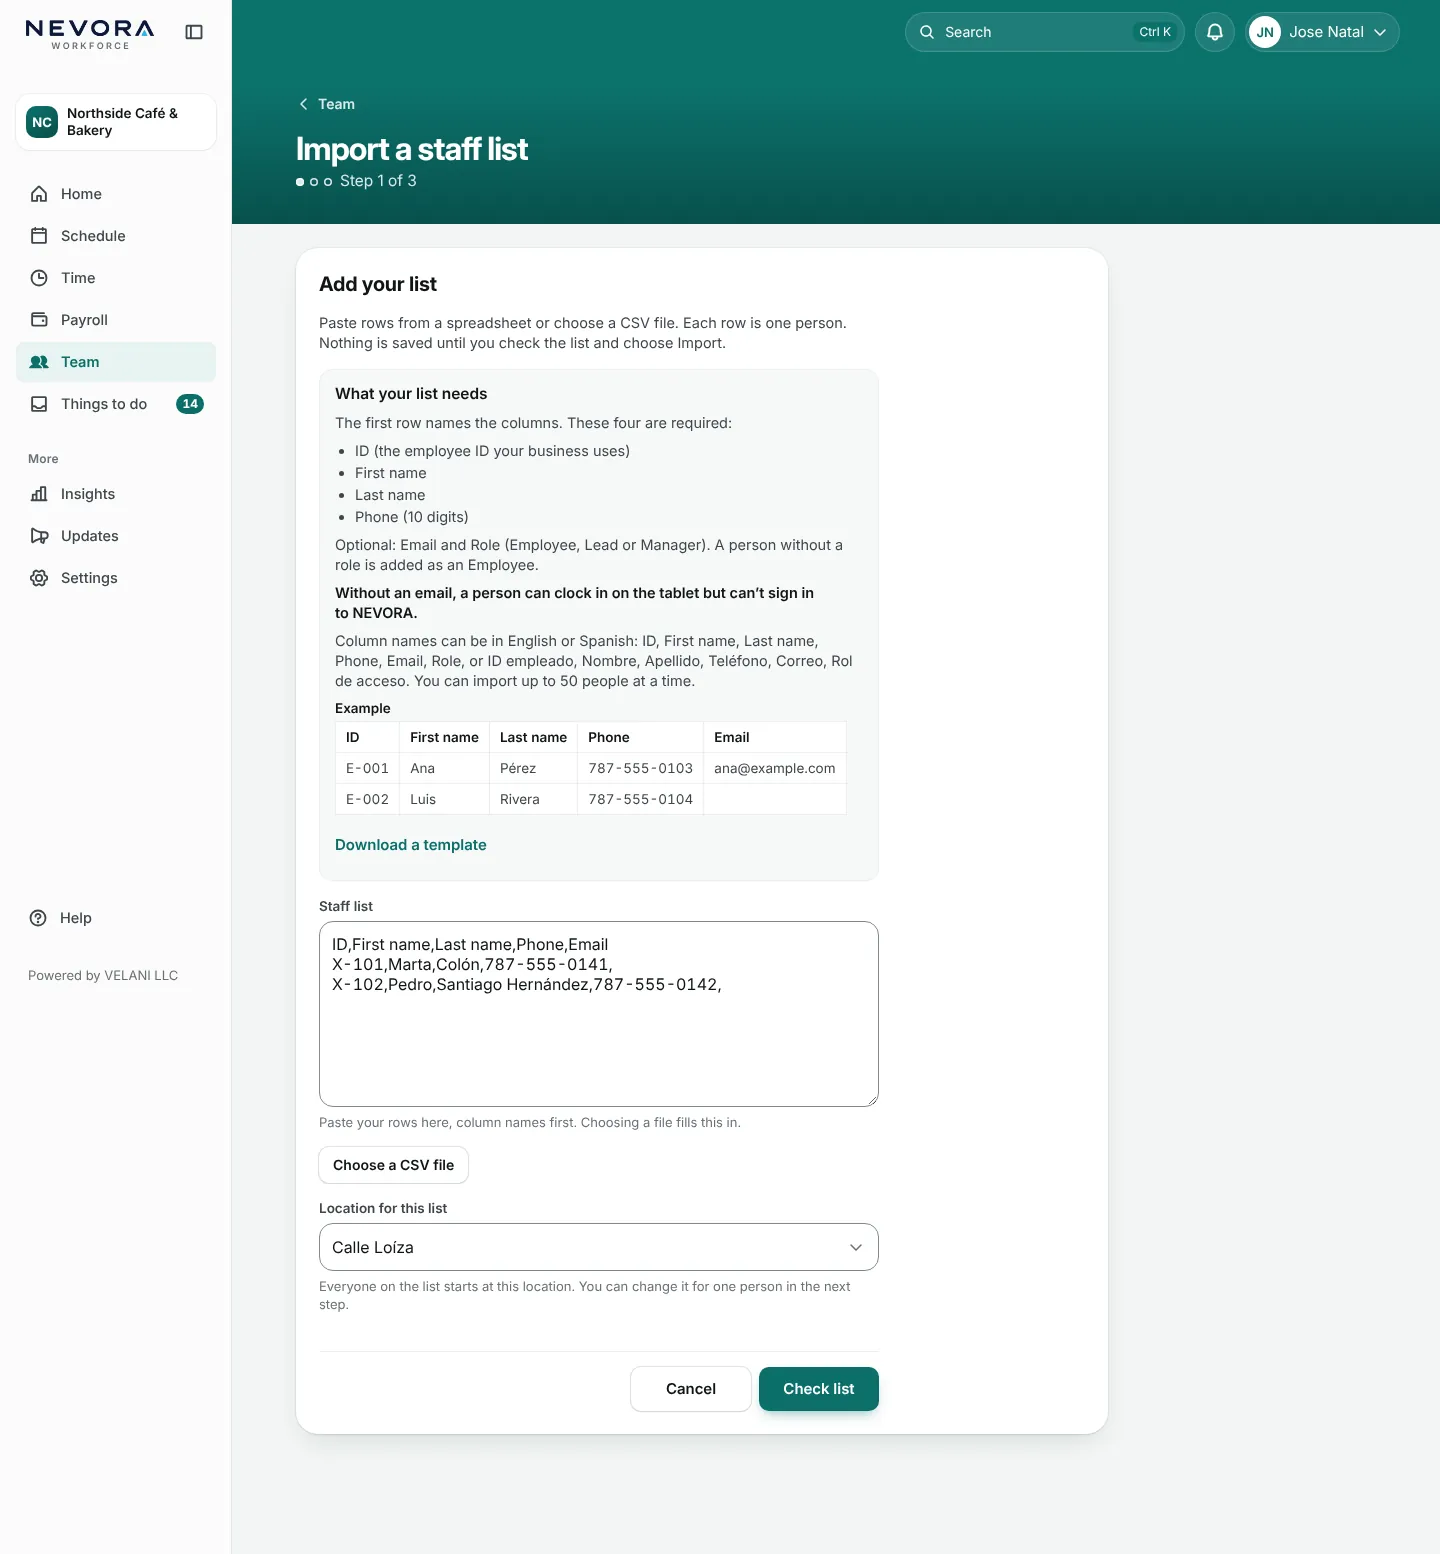
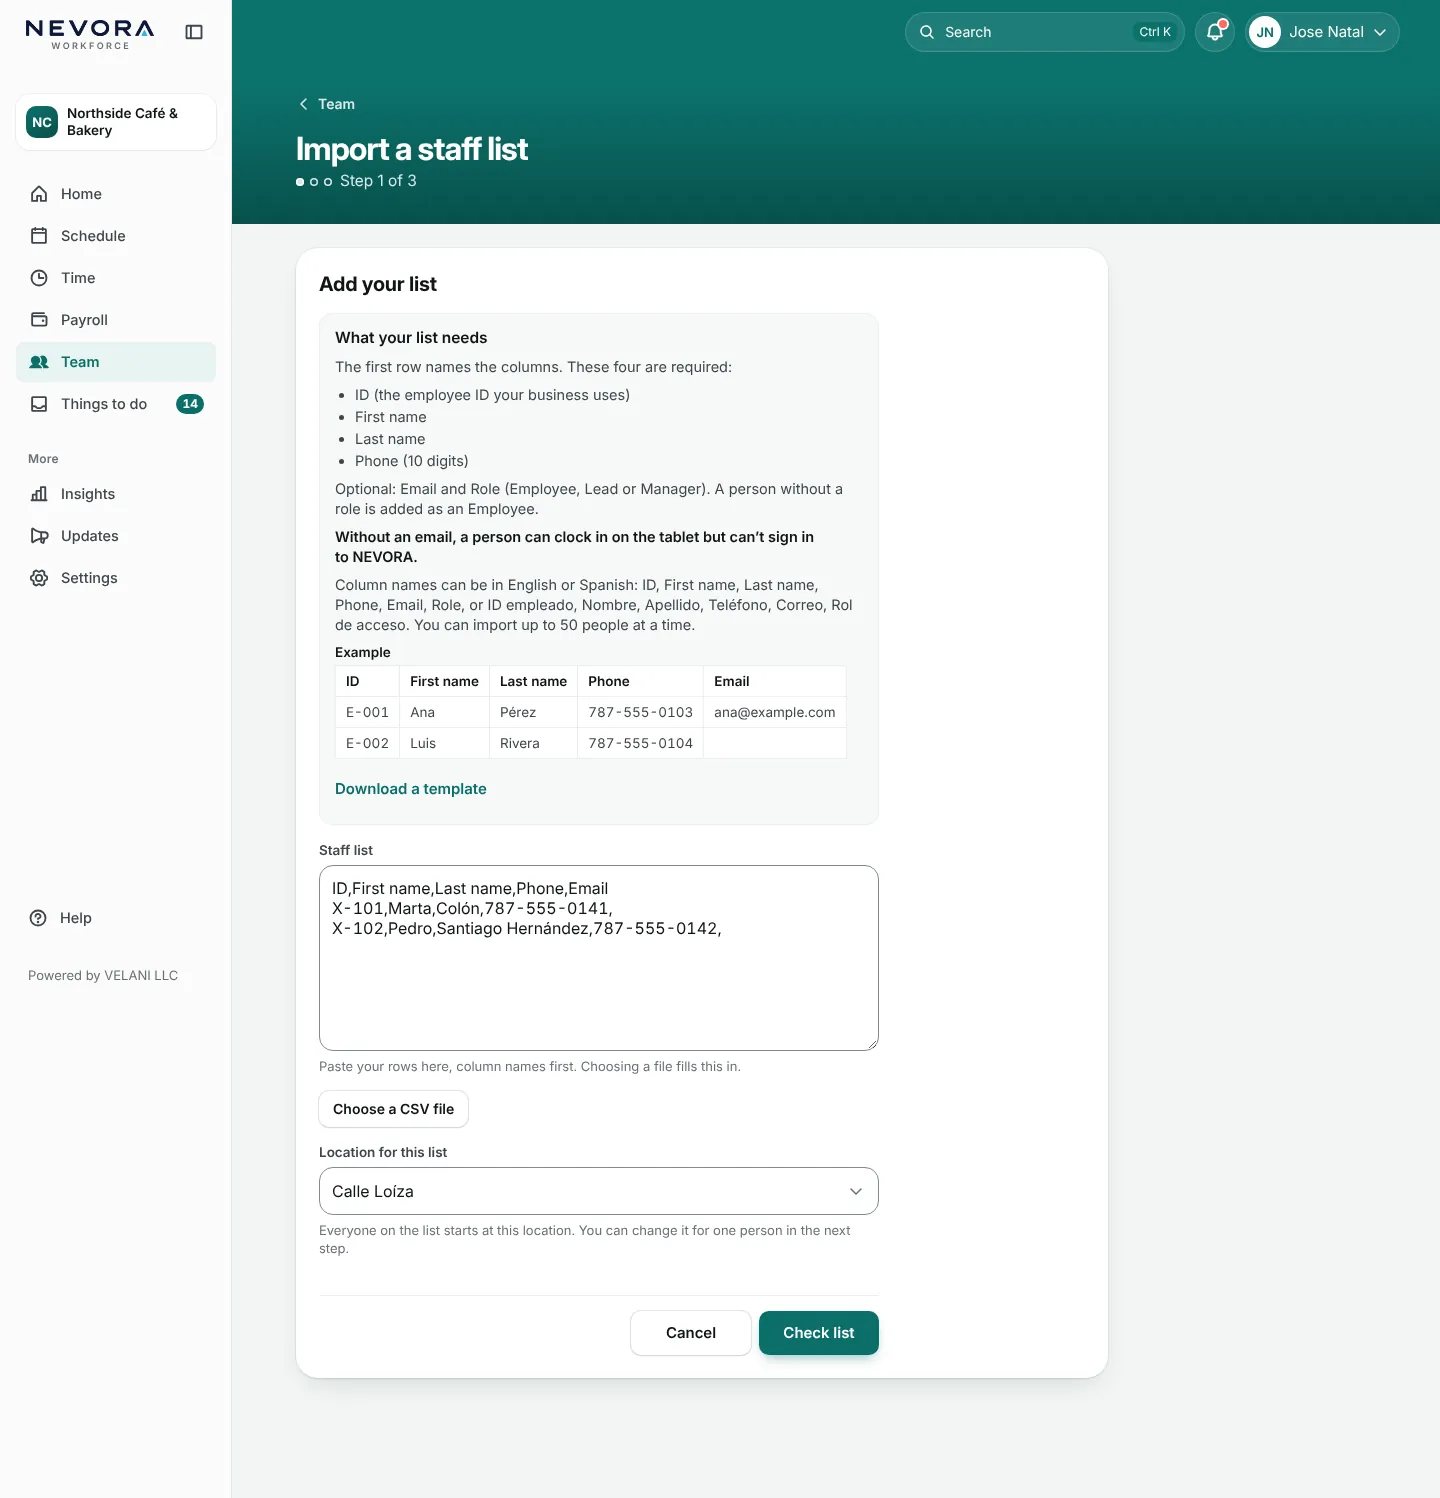
Package X: F3 Owner steps 1 and 2 recaptured after the second pass (390, 390 with 200% text, 1440); report updated
Rendered from the component, not the live import. axe 0, no overflow.

Claude-Session: https://claude.ai/code/session_01N2UNZGxHLT5dLE4G5HAjrG

diff --git a/docs/handoffs/2026-11-23-phase2-cloud/shots/package-x/index.html b/docs/handoffs/2026-11-23-phase2-cloud/shots/package-x/index.html
@@ -5,4 +5,4 @@ th,td{vertical-align:top;padding:8px;border-bottom:1px solid #d5dbd8;text-align:
 th[scope=row]{width:180px}th p{font-weight:400;color:#556}td img{display:block;width:240px;height:auto;border:1px solid #ccd}
 td:nth-child(5) img{width:420px}</style>
 <h1>Package X: F3 Import a staff list and I1 Profile (production build, fictional data)</h1><p>Columns: 390, 390 with 200% text, 768, 1440. Rows marked "rendered from the component, not the live import" show the real step components placed in the signed-in Owner page with the app's CSS; the live import needs workspace routing, which this build doesn't run.</p>
-<table><thead><tr><th>Page</th><th scope=col>Phone</th><th scope=col>Phone, 200% text</th><th scope=col>Tablet</th><th scope=col>Desktop</th></tr></thead><tbody><tr><th scope=row>F3-O<br>Owner (import not available in this build)<p>This capture build has no workspace routing, so the Owner sees &#x27;Staff list import isn&#x27;t available for this workplace yet.&#x27; with Add one person; the band now goes back to Team.</p></th><td><a href="F3-import-O-390.webp"><img loading=lazy src="F3-import-O-390.webp" alt="Import a staff list, Owner (import not available in this build), Phone"></a></td><td><a href="F3-import-O-390t200.webp"><img loading=lazy src="F3-import-O-390t200.webp" alt="Import a staff list, Owner (import not available in this build), Phone, 200% text"></a></td><td><a href="F3-import-O-768.webp"><img loading=lazy src="F3-import-O-768.webp" alt="Import a staff list, Owner (import not available in this build), Tablet"></a></td><td><a href="F3-import-O-1440.webp"><img loading=lazy src="F3-import-O-1440.webp" alt="Import a staff list, Owner (import not available in this build), Desktop"></a></td></tr><tr><th scope=row>F3-O<br>Owner, step 1 Add your list (rendered from the component, not the live import)<p>Step 1: one main action (Check list), Cancel on the band and at the end; the example table scrolls sideways and the keyboard can reach it. Rendered from the component, not the live import.</p></th><td><a href="F3s-add-O-390.webp"><img loading=lazy src="F3s-add-O-390.webp" alt="Import a staff list, Owner, step 1 Add your list (rendered from the component, not the live import), Phone"></a></td><td><a href="F3s-add-O-390t200.webp"><img loading=lazy src="F3s-add-O-390t200.webp" alt="Import a staff list, Owner, step 1 Add your list (rendered from the component, not the live import), Phone, 200% text"></a></td><td><a href="F3s-add-O-768.webp"><img loading=lazy src="F3s-add-O-768.webp" alt="Import a staff list, Owner, step 1 Add your list (rendered from the component, not the live import), Tablet"></a></td><td><a href="F3s-add-O-1440.webp"><img loading=lazy src="F3s-add-O-1440.webp" alt="Import a staff list, Owner, step 1 Add your list (rendered from the component, not the live import), Desktop"></a></td></tr><tr><th scope=row>F3-O<br>Owner, step 2 Check it, with rows to fix (rendered from the component, not the live import)<p>Step 2 with two rows to fix: each person is a stacked row card at every width (the 1440 table broke names mid-word); error lines are under the row; a row to fix shows its phone formatted. Rendered from the component, not the live import.</p></th><td><a href="F3s-review-O-390.webp"><img loading=lazy src="F3s-review-O-390.webp" alt="Import a staff list, Owner, step 2 Check it, with rows to fix (rendered from the component, not the live import), Phone"></a></td><td><a href="F3s-review-O-390t200.webp"><img loading=lazy src="F3s-review-O-390t200.webp" alt="Import a staff list, Owner, step 2 Check it, with rows to fix (rendered from the component, not the live import), Phone, 200% text"></a></td><td><a href="F3s-review-O-768.webp"><img loading=lazy src="F3s-review-O-768.webp" alt="Import a staff list, Owner, step 2 Check it, with rows to fix (rendered from the component, not the live import), Tablet"></a></td><td><a href="F3s-review-O-1440.webp"><img loading=lazy src="F3s-review-O-1440.webp" alt="Import a staff list, Owner, step 2 Check it, with rows to fix (rendered from the component, not the live import), Desktop"></a></td></tr><tr><th scope=row>F3-O<br>Owner, step 3 Import done (rendered from the component, not the live import)<p>Step 3: &#x27;2 people added&#x27;, the row left out and why, the no-email note, next steps as rows, Import another list. Rendered from the component, not the live import.</p></th><td><a href="F3s-done-O-390.webp"><img loading=lazy src="F3s-done-O-390.webp" alt="Import a staff list, Owner, step 3 Import done (rendered from the component, not the live import), Phone"></a></td><td><a href="F3s-done-O-390t200.webp"><img loading=lazy src="F3s-done-O-390t200.webp" alt="Import a staff list, Owner, step 3 Import done (rendered from the component, not the live import), Phone, 200% text"></a></td><td><a href="F3s-done-O-768.webp"><img loading=lazy src="F3s-done-O-768.webp" alt="Import a staff list, Owner, step 3 Import done (rendered from the component, not the live import), Tablet"></a></td><td><a href="F3s-done-O-1440.webp"><img loading=lazy src="F3s-done-O-1440.webp" alt="Import a staff list, Owner, step 3 Import done (rendered from the component, not the live import), Desktop"></a></td></tr><tr><th scope=row>F3-M<br>Manager (closed page)<p>Closed page: &#x27;Importing a staff list is for Owners&#x27;, the Owner named once, Add one person; the band goes back to Team (was Home).</p></th><td><a href="F3-import-M-390.webp"><img loading=lazy src="F3-import-M-390.webp" alt="Import a staff list, Manager (closed page), Phone"></a></td><td><a href="F3-import-M-390t200.webp"><img loading=lazy src="F3-import-M-390t200.webp" alt="Import a staff list, Manager (closed page), Phone, 200% text"></a></td><td><a href="F3-import-M-768.webp"><img loading=lazy src="F3-import-M-768.webp" alt="Import a staff list, Manager (closed page), Tablet"></a></td><td><a href="F3-import-M-1440.webp"><img loading=lazy src="F3-import-M-1440.webp" alt="Import a staff list, Manager (closed page), Desktop"></a></td></tr><tr><th scope=row>F3-Ml<br>Location Manager (closed page)<p>Same closed page as the Manager&#x27;s, back to Team.</p></th><td><a href="F3-import-Ml-390.webp"><img loading=lazy src="F3-import-Ml-390.webp" alt="Import a staff list, Location Manager (closed page), Phone"></a></td><td><a href="F3-import-Ml-390t200.webp"><img loading=lazy src="F3-import-Ml-390t200.webp" alt="Import a staff list, Location Manager (closed page), Phone, 200% text"></a></td><td><a href="F3-import-Ml-768.webp"><img loading=lazy src="F3-import-Ml-768.webp" alt="Import a staff list, Location Manager (closed page), Tablet"></a></td><td><a href="F3-import-Ml-1440.webp"><img loading=lazy src="F3-import-Ml-1440.webp" alt="Import a staff list, Location Manager (closed page), Desktop"></a></td></tr><tr><th scope=row>I1-O<br>Owner (reference, approved)<p>Approved reference.</p></th><td><a href="I1-profile-O-390.webp"><img loading=lazy src="I1-profile-O-390.webp" alt="Profile, Owner (reference, approved), Phone"></a></td><td><a href="I1-profile-O-390t200.webp"><img loading=lazy src="I1-profile-O-390t200.webp" alt="Profile, Owner (reference, approved), Phone, 200% text"></a></td><td><a href="I1-profile-O-768.webp"><img loading=lazy src="I1-profile-O-768.webp" alt="Profile, Owner (reference, approved), Tablet"></a></td><td><a href="I1-profile-O-1440.webp"><img loading=lazy src="I1-profile-O-1440.webp" alt="Profile, Owner (reference, approved), Desktop"></a></td></tr><tr><th scope=row>I1-M<br>Manager (reference, approved)<p>Approved reference.</p></th><td><a href="I1-profile-M-390.webp"><img loading=lazy src="I1-profile-M-390.webp" alt="Profile, Manager (reference, approved), Phone"></a></td><td><a href="I1-profile-M-390t200.webp"><img loading=lazy src="I1-profile-M-390t200.webp" alt="Profile, Manager (reference, approved), Phone, 200% text"></a></td><td><a href="I1-profile-M-768.webp"><img loading=lazy src="I1-profile-M-768.webp" alt="Profile, Manager (reference, approved), Tablet"></a></td><td><a href="I1-profile-M-1440.webp"><img loading=lazy src="I1-profile-M-1440.webp" alt="Profile, Manager (reference, approved), Desktop"></a></td></tr><tr><th scope=row>I1-Ml<br>Location Manager<p>Same card order and buttons as I1-M; the place is named once, by its short name (Condado); an empty Email reads &#x27;Not added&#x27; as on the Owner&#x27;s.</p></th><td><a href="I1-profile-Ml-390.webp"><img loading=lazy src="I1-profile-Ml-390.webp" alt="Profile, Location Manager, Phone"></a></td><td><a href="I1-profile-Ml-390t200.webp"><img loading=lazy src="I1-profile-Ml-390t200.webp" alt="Profile, Location Manager, Phone, 200% text"></a></td><td><a href="I1-profile-Ml-768.webp"><img loading=lazy src="I1-profile-Ml-768.webp" alt="Profile, Location Manager, Tablet"></a></td><td><a href="I1-profile-Ml-1440.webp"><img loading=lazy src="I1-profile-Ml-1440.webp" alt="Profile, Location Manager, Desktop"></a></td></tr></tbody></table>
+<table><thead><tr><th>Page</th><th scope=col>Phone</th><th scope=col>Phone, 200% text</th><th scope=col>Tablet</th><th scope=col>Desktop</th></tr></thead><tbody><tr><th scope=row>F3-O<br>Owner (import not available in this build)<p>This capture build has no workspace routing, so the Owner sees &#x27;Staff list import isn&#x27;t available for this workplace yet.&#x27; with Add one person; the band now goes back to Team.</p></th><td><a href="F3-import-O-390.webp"><img loading=lazy src="F3-import-O-390.webp" alt="Import a staff list, Owner (import not available in this build), Phone"></a></td><td><a href="F3-import-O-390t200.webp"><img loading=lazy src="F3-import-O-390t200.webp" alt="Import a staff list, Owner (import not available in this build), Phone, 200% text"></a></td><td><a href="F3-import-O-768.webp"><img loading=lazy src="F3-import-O-768.webp" alt="Import a staff list, Owner (import not available in this build), Tablet"></a></td><td><a href="F3-import-O-1440.webp"><img loading=lazy src="F3-import-O-1440.webp" alt="Import a staff list, Owner (import not available in this build), Desktop"></a></td></tr><tr><th scope=row>F3-O<br>Owner, step 1 Add your list (rendered from the component, not the live import)<p>Step 1: one main action (Check list), Cancel on the band and at the end; the example table scrolls sideways and the keyboard can reach it. Rendered from the component, not the live import.</p></th><td><a href="F3s-add-O-390.webp"><img loading=lazy src="F3s-add-O-390.webp" alt="Import a staff list, Owner, step 1 Add your list (rendered from the component, not the live import), Phone"></a></td><td><a href="F3s-add-O-390t200.webp"><img loading=lazy src="F3s-add-O-390t200.webp" alt="Import a staff list, Owner, step 1 Add your list (rendered from the component, not the live import), Phone, 200% text"></a></td><td><em>missing</em></td><td><a href="F3s-add-O-1440.webp"><img loading=lazy src="F3s-add-O-1440.webp" alt="Import a staff list, Owner, step 1 Add your list (rendered from the component, not the live import), Desktop"></a></td></tr><tr><th scope=row>F3-O<br>Owner, step 2 Check it, with rows to fix (rendered from the component, not the live import)<p>Step 2 with two rows to fix: each person is a stacked row card at every width (the 1440 table broke names mid-word); error lines are under the row; a row to fix shows its phone formatted. Rendered from the component, not the live import.</p></th><td><a href="F3s-review-O-390.webp"><img loading=lazy src="F3s-review-O-390.webp" alt="Import a staff list, Owner, step 2 Check it, with rows to fix (rendered from the component, not the live import), Phone"></a></td><td><a href="F3s-review-O-390t200.webp"><img loading=lazy src="F3s-review-O-390t200.webp" alt="Import a staff list, Owner, step 2 Check it, with rows to fix (rendered from the component, not the live import), Phone, 200% text"></a></td><td><em>missing</em></td><td><a href="F3s-review-O-1440.webp"><img loading=lazy src="F3s-review-O-1440.webp" alt="Import a staff list, Owner, step 2 Check it, with rows to fix (rendered from the component, not the live import), Desktop"></a></td></tr><tr><th scope=row>F3-O<br>Owner, step 3 Import done (rendered from the component, not the live import)<p>Step 3: &#x27;2 people added&#x27;, the row left out and why, the no-email note, next steps as rows, Import another list. Rendered from the component, not the live import.</p></th><td><a href="F3s-done-O-390.webp"><img loading=lazy src="F3s-done-O-390.webp" alt="Import a staff list, Owner, step 3 Import done (rendered from the component, not the live import), Phone"></a></td><td><a href="F3s-done-O-390t200.webp"><img loading=lazy src="F3s-done-O-390t200.webp" alt="Import a staff list, Owner, step 3 Import done (rendered from the component, not the live import), Phone, 200% text"></a></td><td><a href="F3s-done-O-768.webp"><img loading=lazy src="F3s-done-O-768.webp" alt="Import a staff list, Owner, step 3 Import done (rendered from the component, not the live import), Tablet"></a></td><td><a href="F3s-done-O-1440.webp"><img loading=lazy src="F3s-done-O-1440.webp" alt="Import a staff list, Owner, step 3 Import done (rendered from the component, not the live import), Desktop"></a></td></tr><tr><th scope=row>F3-M<br>Manager (closed page)<p>Closed page: &#x27;Importing a staff list is for Owners&#x27;, the Owner named once, Add one person; the band goes back to Team (was Home).</p></th><td><a href="F3-import-M-390.webp"><img loading=lazy src="F3-import-M-390.webp" alt="Import a staff list, Manager (closed page), Phone"></a></td><td><a href="F3-import-M-390t200.webp"><img loading=lazy src="F3-import-M-390t200.webp" alt="Import a staff list, Manager (closed page), Phone, 200% text"></a></td><td><a href="F3-import-M-768.webp"><img loading=lazy src="F3-import-M-768.webp" alt="Import a staff list, Manager (closed page), Tablet"></a></td><td><a href="F3-import-M-1440.webp"><img loading=lazy src="F3-import-M-1440.webp" alt="Import a staff list, Manager (closed page), Desktop"></a></td></tr><tr><th scope=row>F3-Ml<br>Location Manager (closed page)<p>Same closed page as the Manager&#x27;s, back to Team.</p></th><td><a href="F3-import-Ml-390.webp"><img loading=lazy src="F3-import-Ml-390.webp" alt="Import a staff list, Location Manager (closed page), Phone"></a></td><td><a href="F3-import-Ml-390t200.webp"><img loading=lazy src="F3-import-Ml-390t200.webp" alt="Import a staff list, Location Manager (closed page), Phone, 200% text"></a></td><td><a href="F3-import-Ml-768.webp"><img loading=lazy src="F3-import-Ml-768.webp" alt="Import a staff list, Location Manager (closed page), Tablet"></a></td><td><a href="F3-import-Ml-1440.webp"><img loading=lazy src="F3-import-Ml-1440.webp" alt="Import a staff list, Location Manager (closed page), Desktop"></a></td></tr><tr><th scope=row>I1-O<br>Owner (reference, approved)<p>Approved reference.</p></th><td><a href="I1-profile-O-390.webp"><img loading=lazy src="I1-profile-O-390.webp" alt="Profile, Owner (reference, approved), Phone"></a></td><td><a href="I1-profile-O-390t200.webp"><img loading=lazy src="I1-profile-O-390t200.webp" alt="Profile, Owner (reference, approved), Phone, 200% text"></a></td><td><a href="I1-profile-O-768.webp"><img loading=lazy src="I1-profile-O-768.webp" alt="Profile, Owner (reference, approved), Tablet"></a></td><td><a href="I1-profile-O-1440.webp"><img loading=lazy src="I1-profile-O-1440.webp" alt="Profile, Owner (reference, approved), Desktop"></a></td></tr><tr><th scope=row>I1-M<br>Manager (reference, approved)<p>Approved reference.</p></th><td><a href="I1-profile-M-390.webp"><img loading=lazy src="I1-profile-M-390.webp" alt="Profile, Manager (reference, approved), Phone"></a></td><td><a href="I1-profile-M-390t200.webp"><img loading=lazy src="I1-profile-M-390t200.webp" alt="Profile, Manager (reference, approved), Phone, 200% text"></a></td><td><a href="I1-profile-M-768.webp"><img loading=lazy src="I1-profile-M-768.webp" alt="Profile, Manager (reference, approved), Tablet"></a></td><td><a href="I1-profile-M-1440.webp"><img loading=lazy src="I1-profile-M-1440.webp" alt="Profile, Manager (reference, approved), Desktop"></a></td></tr><tr><th scope=row>I1-Ml<br>Location Manager<p>Same card order and buttons as I1-M; the place is named once, by its short name (Condado); an empty Email reads &#x27;Not added&#x27; as on the Owner&#x27;s.</p></th><td><a href="I1-profile-Ml-390.webp"><img loading=lazy src="I1-profile-Ml-390.webp" alt="Profile, Location Manager, Phone"></a></td><td><a href="I1-profile-Ml-390t200.webp"><img loading=lazy src="I1-profile-Ml-390t200.webp" alt="Profile, Location Manager, Phone, 200% text"></a></td><td><a href="I1-profile-Ml-768.webp"><img loading=lazy src="I1-profile-Ml-768.webp" alt="Profile, Location Manager, Tablet"></a></td><td><a href="I1-profile-Ml-1440.webp"><img loading=lazy src="I1-profile-Ml-1440.webp" alt="Profile, Location Manager, Desktop"></a></td></tr></tbody></table>

diff --git a/docs/handoffs/2026-11-23-phase2-cloud/reports/package-x.md b/docs/handoffs/2026-11-23-phase2-cloud/reports/package-x.md
@@ -10,6 +10,7 @@ Branch `claude-codex-collab-nevora-settings-final`, after merging `origin/claude
 | `5781ae07` | I1-Ml: the place is named by its short name ("Condado", was "Northside Bakery — Condado"), from the location list the page already reads (server read unchanged); an empty Phone or Email reads "Not added", the Owner's word (was "None"). |
 | `dbb1c39c` | F3: a row that still needs a fix shows a 10-digit phone formatted (787-555-0144), like checked rows (display only); the sideways-scrolling example is a named region the keyboard can reach (axe scrollable-region-focusable). |
 | `bed5d1ea` | F3: the review rows are stacked row cards at every width; in the ~500px sheet card at 1440 the six-column table broke names, phones and emails mid-word. |
+| `6c180d5e` | F3 second pass (lead): step 2 says each fact once ("2 ready · 2 need a fix", then "Fix or remove them, then import."); Manager access in one sentence ("This applies only to Manager rows and doesn't include payroll access, which is set separately."); the Manager access choice is marked required, not red, before a choice (the Manager row's line says what is missing; Import waits); step 1's intro paragraph removed (it repeated the list field's help and the step names). Spanish follows. Whole `src/components` suite: 278 files, 3,224 tests pass. |
 | `0cf6a6b7` | I1 (Manager): "What you can approve" values break only between words ("Not granted" broke as "grante/d" at 200% text). |
 
 Checks: `tsc --noEmit` clean; oxlint clean on the changed paths; tests pass in `src/app/app/employees/import`,
@@ -35,7 +36,7 @@ Words before/after: "Northside Bakery — Condado" → "Condado"; "None" → "No
 
 ## Captures
 `shots/package-x/`: `<screen>-<O|M|Ml>-<390|390t200|768|1440>.webp`, `index.html` (side by side) and `rows.json`.
-Production build, viewport-height shots stitched. F3 and I1-O at `bed5d1ea`; I1-M and I1-Ml again at `0cf6a6b7` (after the word-break fix).
+Production build, viewport-height shots stitched. F3 at `bed5d1ea`, then F3 Owner steps 1 and 2 again at `6c180d5e` (390, 390 with 200% text, 1440; their earlier 768 shots were dropped as out of date); I1-O at `bed5d1ea`; I1-M and I1-Ml again at `0cf6a6b7` (after the word-break fix).
 axe: 0 violations on every capture. No page overflow. The measurement flags left are by design: the review table's header
 row is for screen readers only, the example table scrolls sideways, the phone-only band link is hidden from 768, and the
 profile's hidden "·" separators.
@@ -54,7 +55,5 @@ Proposed ledger row:
 | G-X1 | F3 Import a staff list (Owner) | The live import (check, import, the server's row errors) can't be captured on the desk/scoped capture build: the page and `/api/onboarding/roster` need workspace routing (isolated mode with a control database). The Owner steps in `shots/package-x/` are rendered from the component, not the live import. | Extend the step 4 isolated-workspace lifecycle test (`step4-production-screens.ts`) for 390, 768, 1440 and 200% text. |
 
 - Live Owner import captures need the isolated-workspace fixture (see above).
-- End sweep (proposed rows): I1 detail values (555-0126, Not added, Puerto Rico, Condado) are fixed px and don't grow at
-  200% text, while the labels do. F3 step 1 opens with a paragraph on how the import works ("Paste rows from a
-  spreadsheet or choose a CSV file… Nothing is saved until you check the list and choose Import."); kept as onboarding
-  help, flag for Jose if it reads as explanation.
+- End sweep (proposed row): I1 detail values (555-0126, Not added, Puerto Rico, Condado) are fixed px and don't grow at
+  200% text, while the labels do.
